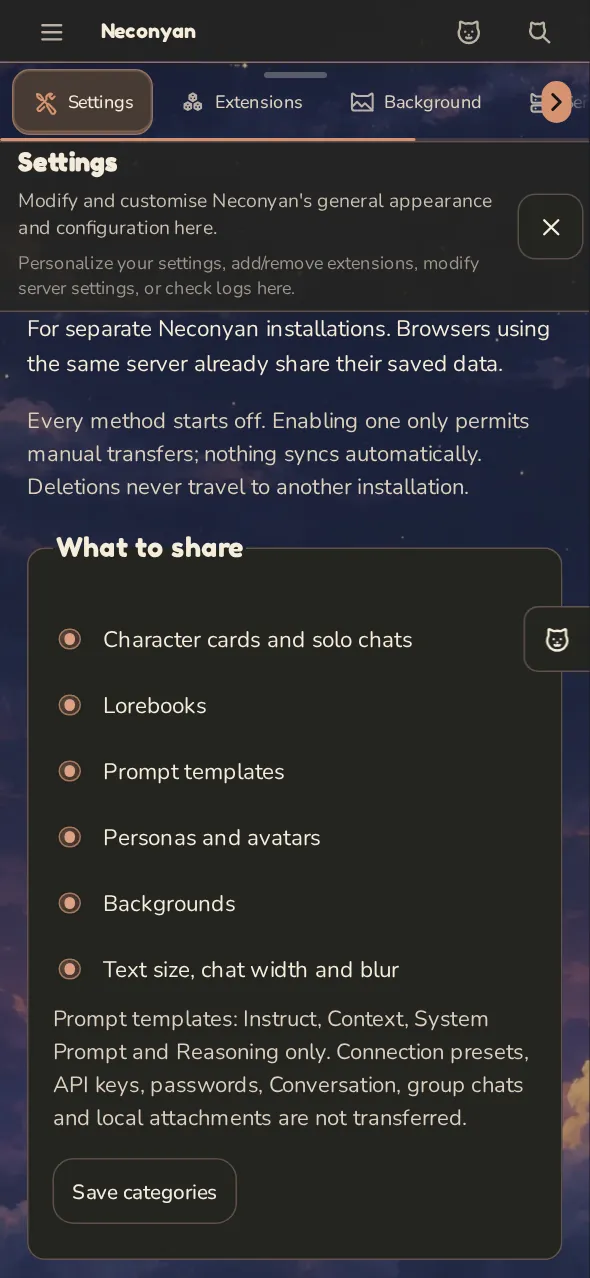
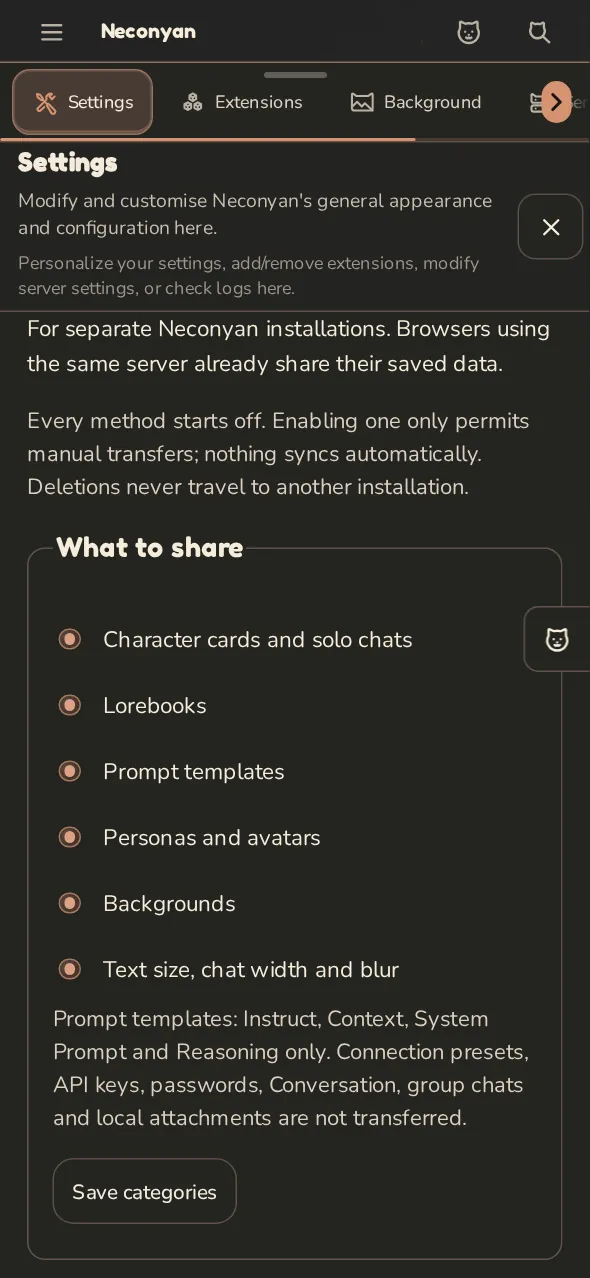
docs(screenshots): use zero background visibility

Changed region(s): [[0.0, 0.2441, 1.0, 1.0], [0.2441, 0.0305, 1.0, 0.1221], [0.0, 0.0305, 0.061, 0.1221]]

diff --git a/ASSETS.md b/ASSETS.md
@@ -6,7 +6,7 @@ The bundled artwork was copied from [Neconyan at 6e0269d0](https://github.com/pl
 
 I captured all twenty-four screenshots on 16 November 2026 from [Neconyan at 49d60b17](https://github.com/platberlitz/Neconyan/tree/49d60b1740f00ee27a5a0b39f255f969748c2c36), the 1.5.6 staging build. Home, Roleplay, Catelier, Simple Mode, Conversation, Meower, Story Mode, Notebooks, Scratchpad, Agents, Proofreader and Device sync each have a desktop and phone image. The app README and this handbook use identical copies.
 
-The captures use disposable demonstration data: Calico Dark with its default accent, bundled assistants and staged chats, posts, notes, a character dossier and a Scratchpad discussion. The default colours were restored and checked before capture. No personal account data was used. The Proofreader example runs the real Agent workflow with one intercepted provider request returning a fixed sample response; its edit, Undo and Redo were checked again at both widths. It isn't a live model demonstration. No external model requests were made.
+The captures use disposable demonstration data: Calico Dark with its default accent, bundled assistants and staged chats, posts, notes, a character dossier and a Scratchpad discussion. I set Background Visibility to 0% for opaque reading panels. The default colours and visibility setting were checked before every capture. No personal account data was used. The Proofreader example runs the real Agent workflow with one intercepted provider request returning a fixed sample response; its edit, Undo and Redo were checked again at both widths. It isn't a live model demonstration. No external model requests were made.
 
 These replace the twenty-two images from the 1.5.4 candidate and the two Conversation images from 1.5.5 staging. Neconyan 1.5.5 remains the published release; the screenshot refresh doesn't change the guides' recorded review version.
 

diff --git a/docs/help/about.md b/docs/help/about.md
@@ -30,7 +30,7 @@ The practical guides focus on common tasks and link to longer references when yo
 
 ## Screenshots and artwork
 
-I refreshed all twenty-four workspace screenshots on 16 November 2026 from [Neconyan at 49d60b17](https://github.com/platberlitz/Neconyan/tree/49d60b1740f00ee27a5a0b39f255f969748c2c36), the 1.5.6 staging build. They use the default Calico Dark colours, demonstration content and the bundled assistants. Some details may look different in the published 1.5.5 release. The Proofreader example uses a fixed sample response through the real edit-history workflow, with edit, Undo and Redo checked at both widths. It isn't a live model conversation.
+I refreshed all twenty-four workspace screenshots on 16 November 2026 from [Neconyan at 49d60b17](https://github.com/platberlitz/Neconyan/tree/49d60b1740f00ee27a5a0b39f255f969748c2c36), the 1.5.6 staging build. They use the default Calico Dark colours, Background Visibility at 0%, demonstration content and the bundled assistants. Some details may look different in the published 1.5.5 release. The Proofreader example uses a fixed sample response through the real edit-history workflow, with edit, Undo and Redo checked at both widths. It isn't a live model conversation.
 
 Miso, Taro and Nori use Neconyan's existing assistant artwork, with male, female and neutral variants. Their handbook dialogue is written guidance, not a live model conversation. Gender preferences stay in the browser when storage is available.
 

diff --git a/README.md b/README.md
@@ -43,7 +43,7 @@ Avoid repeated 'same X' phrasing and three-item lists written for rhythm. Keep a
 
 Use demonstration data for screenshots. Desktop captures are 1280×900 and phone captures are 393×852. Keep verification captures in `screenshots/`; that directory is ignored. Images published in the handbook belong in `docs/assets/images/screenshots/`.
 
-I captured all twenty-four screenshots on 16 November 2026 from Neconyan at `49d60b17`, using the default Calico Dark accent. The app README uses identical copies. The Proofreader example uses a fixed sample response through the real Agent workflow, with edit, Undo and Redo checked at both widths. Capture provenance and browser settings are in [ASSETS.md](ASSETS.md). When replacing screenshots, update that record and check the affected guides and screenshot zoom at both widths.
+I captured all twenty-four screenshots on 16 November 2026 from Neconyan at `49d60b17`, using the default Calico Dark accent and Background Visibility at 0%. The app README uses identical copies. The Proofreader example uses a fixed sample response through the real Agent workflow, with edit, Undo and Redo checked at both widths. Capture provenance and browser settings are in [ASSETS.md](ASSETS.md). When replacing screenshots, update that record and check the affected guides and screenshot zoom at both widths.
 
 ## Update the macro reference
 
